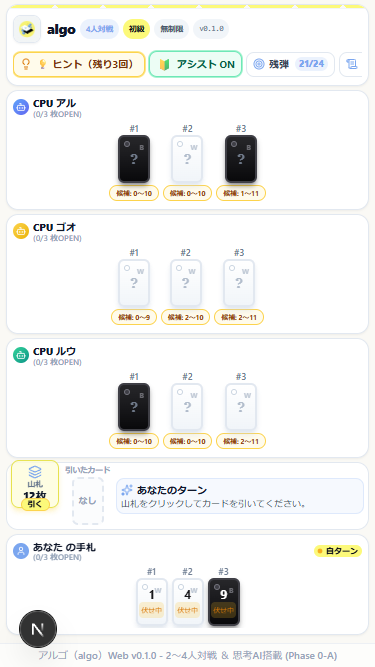
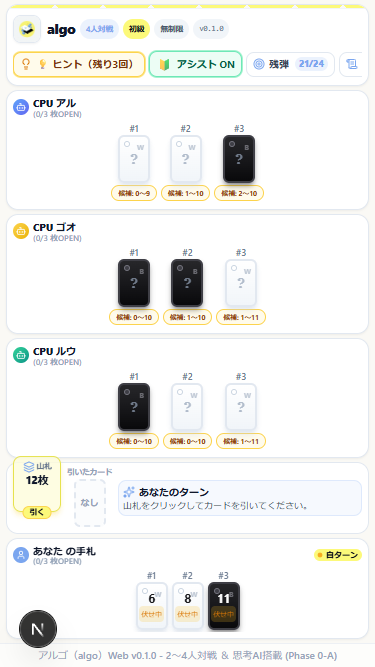
fix(ui): 山札ボタン枚数テキストと引くバッジの重なり解消および余白最適化 (#131)

diff --git a/src/components/GameBoard.tsx b/src/components/GameBoard.tsx
@@ -2398,7 +2398,7 @@ export const GameBoard: React.FC<GameBoardProps> = ({
           {/* Deck & Action Bar (自手札直上配置・コンパクトバー形式で中央のデッドスペースを解消) */}
           <section
             data-testid="deck-action-bar"
-            className="bg-white rounded-xl sm:rounded-2xl p-1 sm:px-3 sm:py-1.5 border border-slate-200 shadow-xs flex items-center justify-between gap-1.5 sm:gap-3 shrink-0"
+            className="bg-white rounded-xl sm:rounded-2xl p-1.5 sm:px-3 sm:py-2 border border-slate-200 shadow-xs flex items-center justify-between gap-1.5 sm:gap-3 shrink-0"
           >
             {/* 1. 山札 (Deck Pile) */}
             <div className="flex items-center gap-1 sm:gap-2 shrink-0">
@@ -2420,19 +2420,21 @@ export const GameBoard: React.FC<GameBoardProps> = ({
                     : undefined
                 }
                 onClick={gameState.phase === 'PLAYER_TURN_START' && gameState.deck.length > 0 ? handlePlayerDraw : undefined}
-                className={`relative w-12 h-12 sm:w-14 sm:h-14 lg:w-16 lg:h-14 rounded-lg sm:rounded-xl border flex flex-col items-center justify-center select-none transition-all ${
+                className={`relative w-12 h-14 sm:w-14 sm:h-14 lg:w-16 lg:h-14 rounded-lg sm:rounded-xl border flex flex-col items-center justify-start pt-1 sm:pt-1.5 select-none transition-all ${
                   gameState.phase === 'PLAYER_TURN_START' && gameState.deck.length > 0
                     ? 'border-algo-yellow-dark bg-algo-yellow-light/80 shadow-md shadow-amber-200/50 cursor-pointer hover:scale-105 animate-bounce'
                     : 'border-slate-200 bg-slate-50 text-slate-400'
                 }`}
               >
-                <Layers className="w-3.5 h-3.5 sm:w-4 sm:h-4 text-algo-blue mb-0.5" />
-                <span className="text-[7.5px] sm:text-[9px] font-bold text-slate-500 leading-none">山札</span>
-                <span className="text-[11px] sm:text-xs lg:text-sm font-black text-slate-900 leading-tight">
+                <div className="flex items-center gap-0.5 text-slate-500 leading-none mb-0.5">
+                  <Layers className="w-3 h-3 sm:w-3.5 sm:h-3.5 text-algo-blue shrink-0" />
+                  <span className="text-[7.5px] sm:text-[9px] font-bold">山札</span>
+                </div>
+                <span className="text-[10.5px] sm:text-xs lg:text-sm font-black text-slate-900 leading-none">
                   {gameState.deck.length}枚
                 </span>
                 {gameState.phase === 'PLAYER_TURN_START' && gameState.deck.length > 0 && (
-                  <span className="absolute -bottom-1 px-1.5 py-0.2 rounded-full bg-algo-yellow text-slate-950 text-[7.5px] sm:text-[9px] font-black border border-amber-300 shadow-2xs">
+                  <span className="absolute -bottom-2 left-1/2 -translate-x-1/2 px-1.5 py-0.2 rounded-full bg-algo-yellow text-slate-950 text-[7.5px] sm:text-[9px] font-black border border-amber-300 shadow-2xs whitespace-nowrap z-10">
                     引く
                   </span>
                 )}
